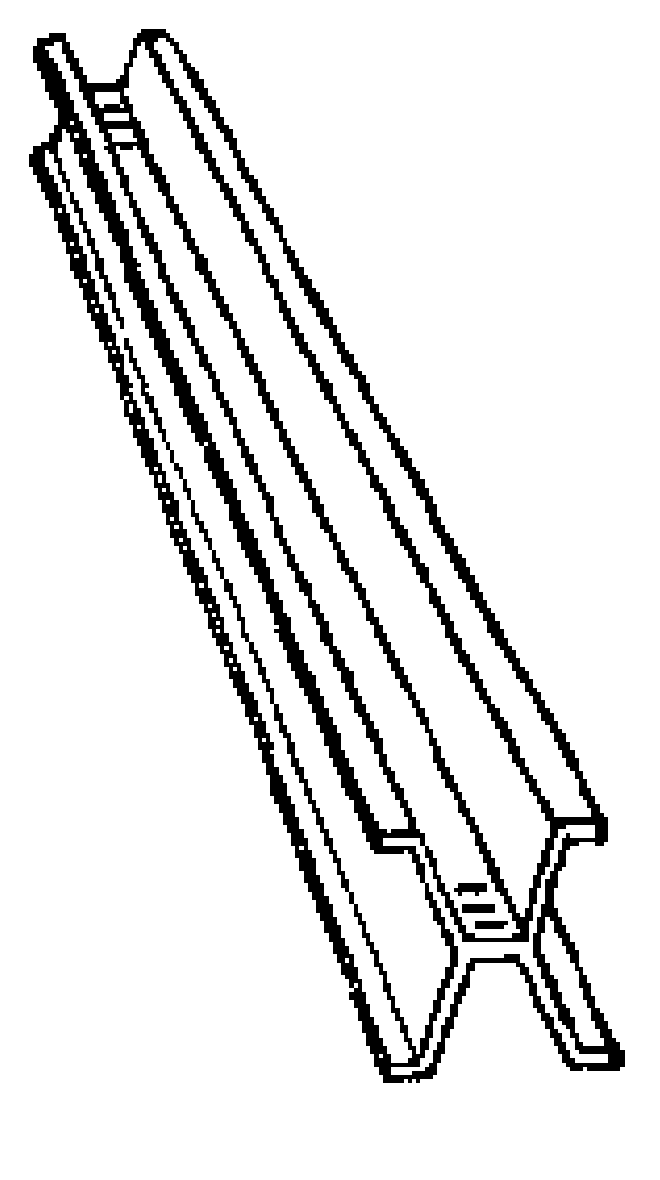
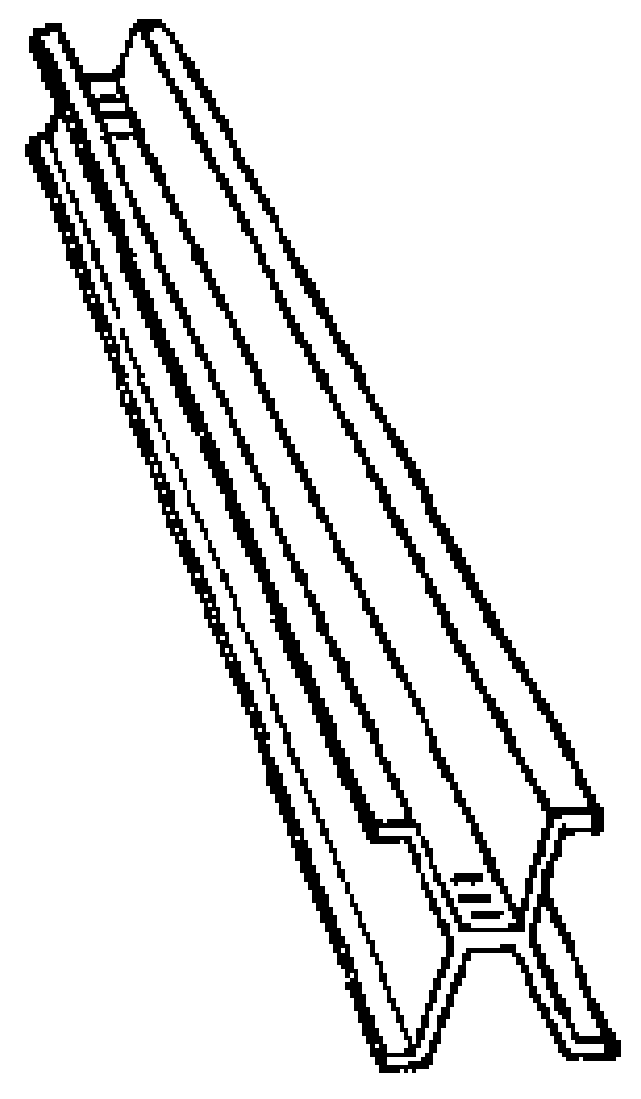
物理第一册: §1·1 示意图改用 CeTZ 重绘，修正裁图坐标
- 重绘为矢量：图 1·2 数轴与标注、图 1·3 直尺、图 1·4、1·5、图 1·7/1·8 的放大刻度与文字标注
- 写实插画（1·1、卷尺、卡尺本体、1·6、习题附图、1·2 的小图标）保留 PNG
- common/series.typ 新增 px-canvas：CeTZ 画布直接用原书页面像素坐标
- 修正上次裁图坐标（按缩小显示图估算，偏 6%，部分图被切掉边缘），重新裁剪
- scripts: render-pages.py --grid 画坐标网格；crop-figure.py 加 --scale、--blank
- 图 1·2 部分刻度指数扫描难辨（10^-8、10^-6、10^0），黄底标出待核对

Changed region(s): [[0.0312, 0.0, 0.9672, 0.99], [0.2184, 0.1237, 0.2496, 0.1547]]

diff --git a/scripts/crop-figure.py b/scripts/crop-figure.py
@@ -2,8 +2,10 @@
 
 用法：
     python scripts/crop-figure.py <pdf> <原书页码> <x0,y0,x1,y1> <输出.png> [--offset 4] [--dpi 400] [--threshold 170]
+                                  [--scale 1.0657] [--blank x0,y0,x1,y1 ...]
 
-坐标是 render-pages.py 默认输出的 200 dpi 页面图上的像素坐标（左上角为原点），
+坐标是 render-pages.py --dpi 200 输出的页面图（1671×2500）上的像素坐标（左上角为原点）。
+注意：看图工具常把这张图缩小显示（宽 1568 px），在显示图上量出的坐标要用 --scale 1.0657 换算。
 脚本会按 --dpi 重新以更高分辨率渲染再裁剪，所以裁出的图比 200 dpi 预览清晰。
 --threshold：灰度低于它的像素变黑，其余变白；线条太细就调高，底色噪点多就调低。
 """
@@ -23,9 +25,13 @@ def main() -> None:
     ap.add_argument("--offset", type=int, default=4)
     ap.add_argument("--dpi", type=int, default=400)
     ap.add_argument("--threshold", type=int, default=170)
+    ap.add_argument("--scale", type=float, default=1.0,
+                    help="坐标缩放。在被缩小显示的预览图上量坐标时用：显示宽 1568 px 而真实宽 1671 px，传 1.0657")
+    ap.add_argument("--blank", action="append", default=[], metavar="x0,y0,x1,y1",
+                    help="把该矩形涂白（坐标与 box 同一系统，可重复），用于去掉图中要改成真文字的标注")
     args = ap.parse_args()
 
-    x0, y0, x1, y1 = (float(v) for v in args.box.split(","))
+    x0, y0, x1, y1 = (float(v) * args.scale for v in args.box.split(","))
     k = 72 / PREVIEW_DPI  # 预览像素 → PDF 点
     page = pymupdf.open(args.pdf)[args.page + args.offset]
     clip = pymupdf.Rect(x0 * k, y0 * k, x1 * k, y1 * k) & page.rect
@@ -34,6 +40,12 @@ def main() -> None:
     t = args.threshold
     table = bytes(0 if v < t else 255 for v in range(256))
     bw = pymupdf.Pixmap(pymupdf.csGRAY, pix.width, pix.height, pix.samples.translate(table), False)
+    # 涂白：像素 = (坐标 * scale - clip 左上角) / 72 * dpi
+    for b in args.blank:
+        bx0, by0, bx1, by1 = (float(v) * args.scale for v in b.split(","))
+        r = pymupdf.IRect(round((bx0 * k - clip.x0) / 72 * args.dpi), round((by0 * k - clip.y0) / 72 * args.dpi),
+                          round((bx1 * k - clip.x0) / 72 * args.dpi), round((by1 * k - clip.y0) / 72 * args.dpi))
+        bw.set_rect(r & bw.irect, (255,))
     bw.set_dpi(args.dpi, args.dpi)
     bw.save(args.out)
     print(f"{args.out}  {bw.width}×{bw.height}")

diff --git a/scripts/render-pages.py b/scripts/render-pages.py
@@ -36,6 +36,9 @@ def main() -> None:
     ap.add_argument("--raw", action="store_true", help="范围按 PDF 页序（0 起计）解释")
     ap.add_argument("--dpi", type=int, default=150)
     ap.add_argument("--out", default="build/pages")
+    ap.add_argument("--grid", type=int, default=0, metavar="N",
+                    help="每隔 N 像素（按 --dpi 的像素算）画一条带坐标标注的网格线，输出文件名加 -grid。"
+                         "用来给 crop-figure.py 量裁剪框：标注的数字就是真实像素坐标，不受看图工具缩放影响")
     args = ap.parse_args()
 
     out = pathlib.Path(args.out)
@@ -46,9 +49,24 @@ def main() -> None:
         if not 0 <= idx < doc.page_count:
             print(f"跳过：PDF 页序 {idx} 超出范围（共 {doc.page_count} 页）")
             continue
-        name = f"pdf{idx:04d}.png" if args.raw else f"p{p:04d}.png"
-        doc[idx].get_pixmap(dpi=args.dpi).save(out / name)
-        print(out / name)
+        stem = f"pdf{idx:04d}" if args.raw else f"p{p:04d}"
+        page = doc[idx]
+        if args.grid:
+            step = args.grid * 72 / args.dpi  # 网格间距（PDF 点）
+            red = (0.85, 0.1, 0.1)
+            for i in range(1, int(page.rect.width / step) + 1):
+                x = i * step
+                page.draw_line((x, 0), (x, page.rect.height), color=red, width=0.3)
+                for j in range(0, int(page.rect.height / (step * 5)) + 1):
+                    page.insert_text((x + 1, j * step * 5 + 8), str(i * args.grid), fontsize=6, color=red)
+            for j in range(1, int(page.rect.height / step) + 1):
+                y = j * step
+                page.draw_line((0, y), (page.rect.width, y), color=red, width=0.3)
+                for i in range(0, int(page.rect.width / (step * 5)) + 1):
+                    page.insert_text((i * step * 5 + 1, y - 1), str(j * args.grid), fontsize=6, color=red)
+            stem += "-grid"
+        page.get_pixmap(dpi=args.dpi).save(out / f"{stem}.png")
+        print(out / f"{stem}.png")
 
 
 if __name__ == "__main__":

diff --git a/CLAUDE.md b/CLAUDE.md
@@ -55,6 +55,7 @@ build/                     编译产物（不提交）
   - `#sidenote[…]`：边注，放在右侧页边。写在正文中对应的位置。
   - `#fig("1·1", image(...))[图题]`：编号插图。第一个参数写原书图号，和自动编号不一致时编译报错。
   - `#plainfig((图, [（第 4 题）]), …)`：不编号的小图，可多幅并排。
+  - `#px-canvas(w, h, origin: …, width: …, (p, u) => { import cetz.draw: *; … })`：CeTZ 画布，坐标直接用原书页面像素坐标（y 向下），描图不用换算。一幅图一个文件 `figures/figX-Y.typ`，导出 `fig-X-Y(width: …)`，章文件里 `#fig("X·Y", fig-X-Y())[图题]`。
   - `#exercise("1·1")[+ … + …]`：习题，自动加标签 `<ex-1·1>`。
   - `#review[+ …]`：章末复习题。
   - `#answers("1·1")[+ …]`：习题答案，引用了不存在的习题时编译报错。
@@ -72,6 +73,12 @@ build/                     编译产物（不提交）
    页界落在段落中间时用行内注释 `……测量和/* p.2 */计算……`，不要断行（单独一行的注释会让前后的换行变成多余空格）。
    公式里的中文单位直接写在引号里、前面不加空格：`$1 "千米" = 1000 "米"$`。
 4. 插图：先判断能否 CeTZ 重绘；保留原图号、图题和图中标注字母（F、G、O、s、t 等）。
+   - 示意图、几何图、坐标图、受力图、刻度、线条图一律 CeTZ 重绘（矢量，放大不失真，标注是真文字）；图中文字、数字不得留在位图里。
+   - 写实插画（人物、器械、木纹）保留原扫描裁剪的二值化 PNG；要在其上加文字标注的，用 `--blank` 涂掉原有文字再用 CeTZ 补。
+   - **不要用自动描摹（vtracer 等）把位图转 SVG**：原扫描只有约 130 dpi，描摹不会增加细节，还会把图中的字弄错（试过，"0"变"U"）。
+   - 量坐标：`render-pages.py … --dpi 200 --grid 100` 输出带真实坐标网格的页面图（`*-grid.png`），按网格数字读坐标。
+     **不要凭看图工具里缩小显示的图估坐标**（显示宽 1568 px，真实宽 1671 px，差 6%）；若确实在显示图上量，裁图时加 `--scale 1.0657`。
+   - 原图里看不清的刻度值、数字：图中用 `unclear` 的黄底标出，在源码里写 TODO 说明，提交说明里列出页码，不得凭常识补。
 5. 编译无错误、无警告后，导出对应内容为 PNG，与原书对应页**逐段核对内容**（文字、公式、数字、图中标注），不核对版面。
 6. 一次提交一个或几个小节，提交信息写明范围，例如 `物理第一册: §4·5 匀速直线运动的路程图线和速度图线 (p.96–101)`。
 
